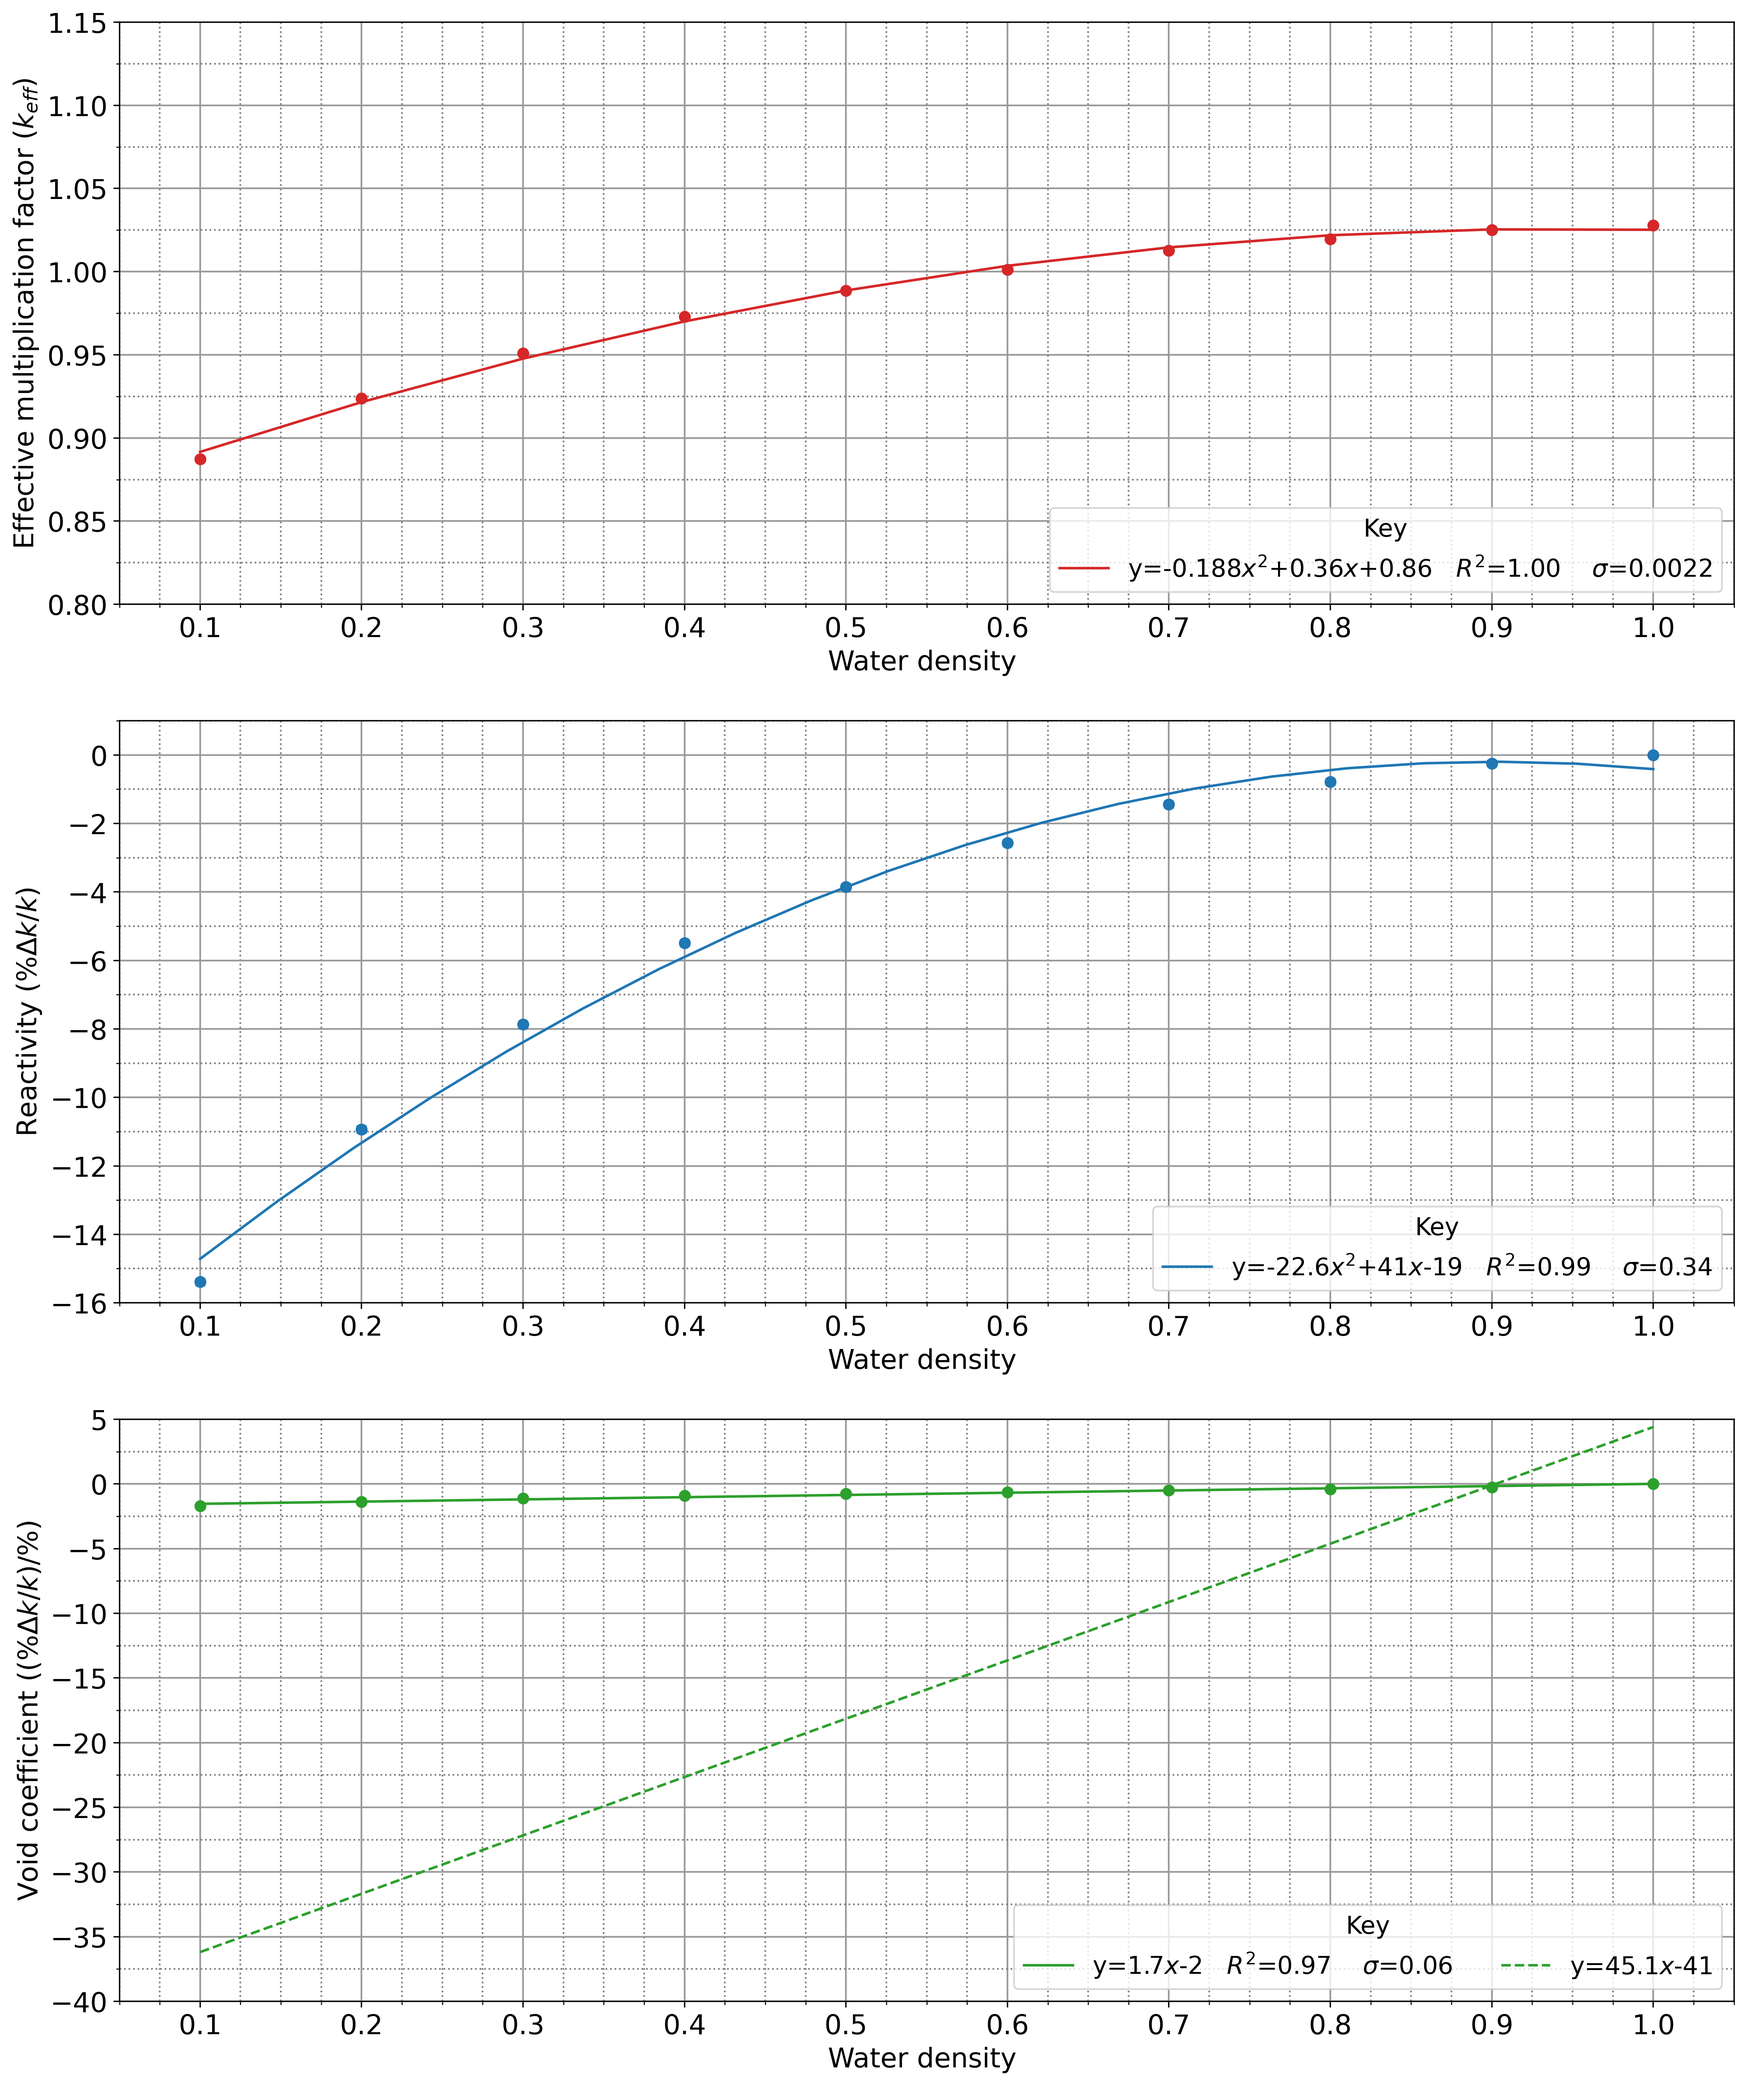
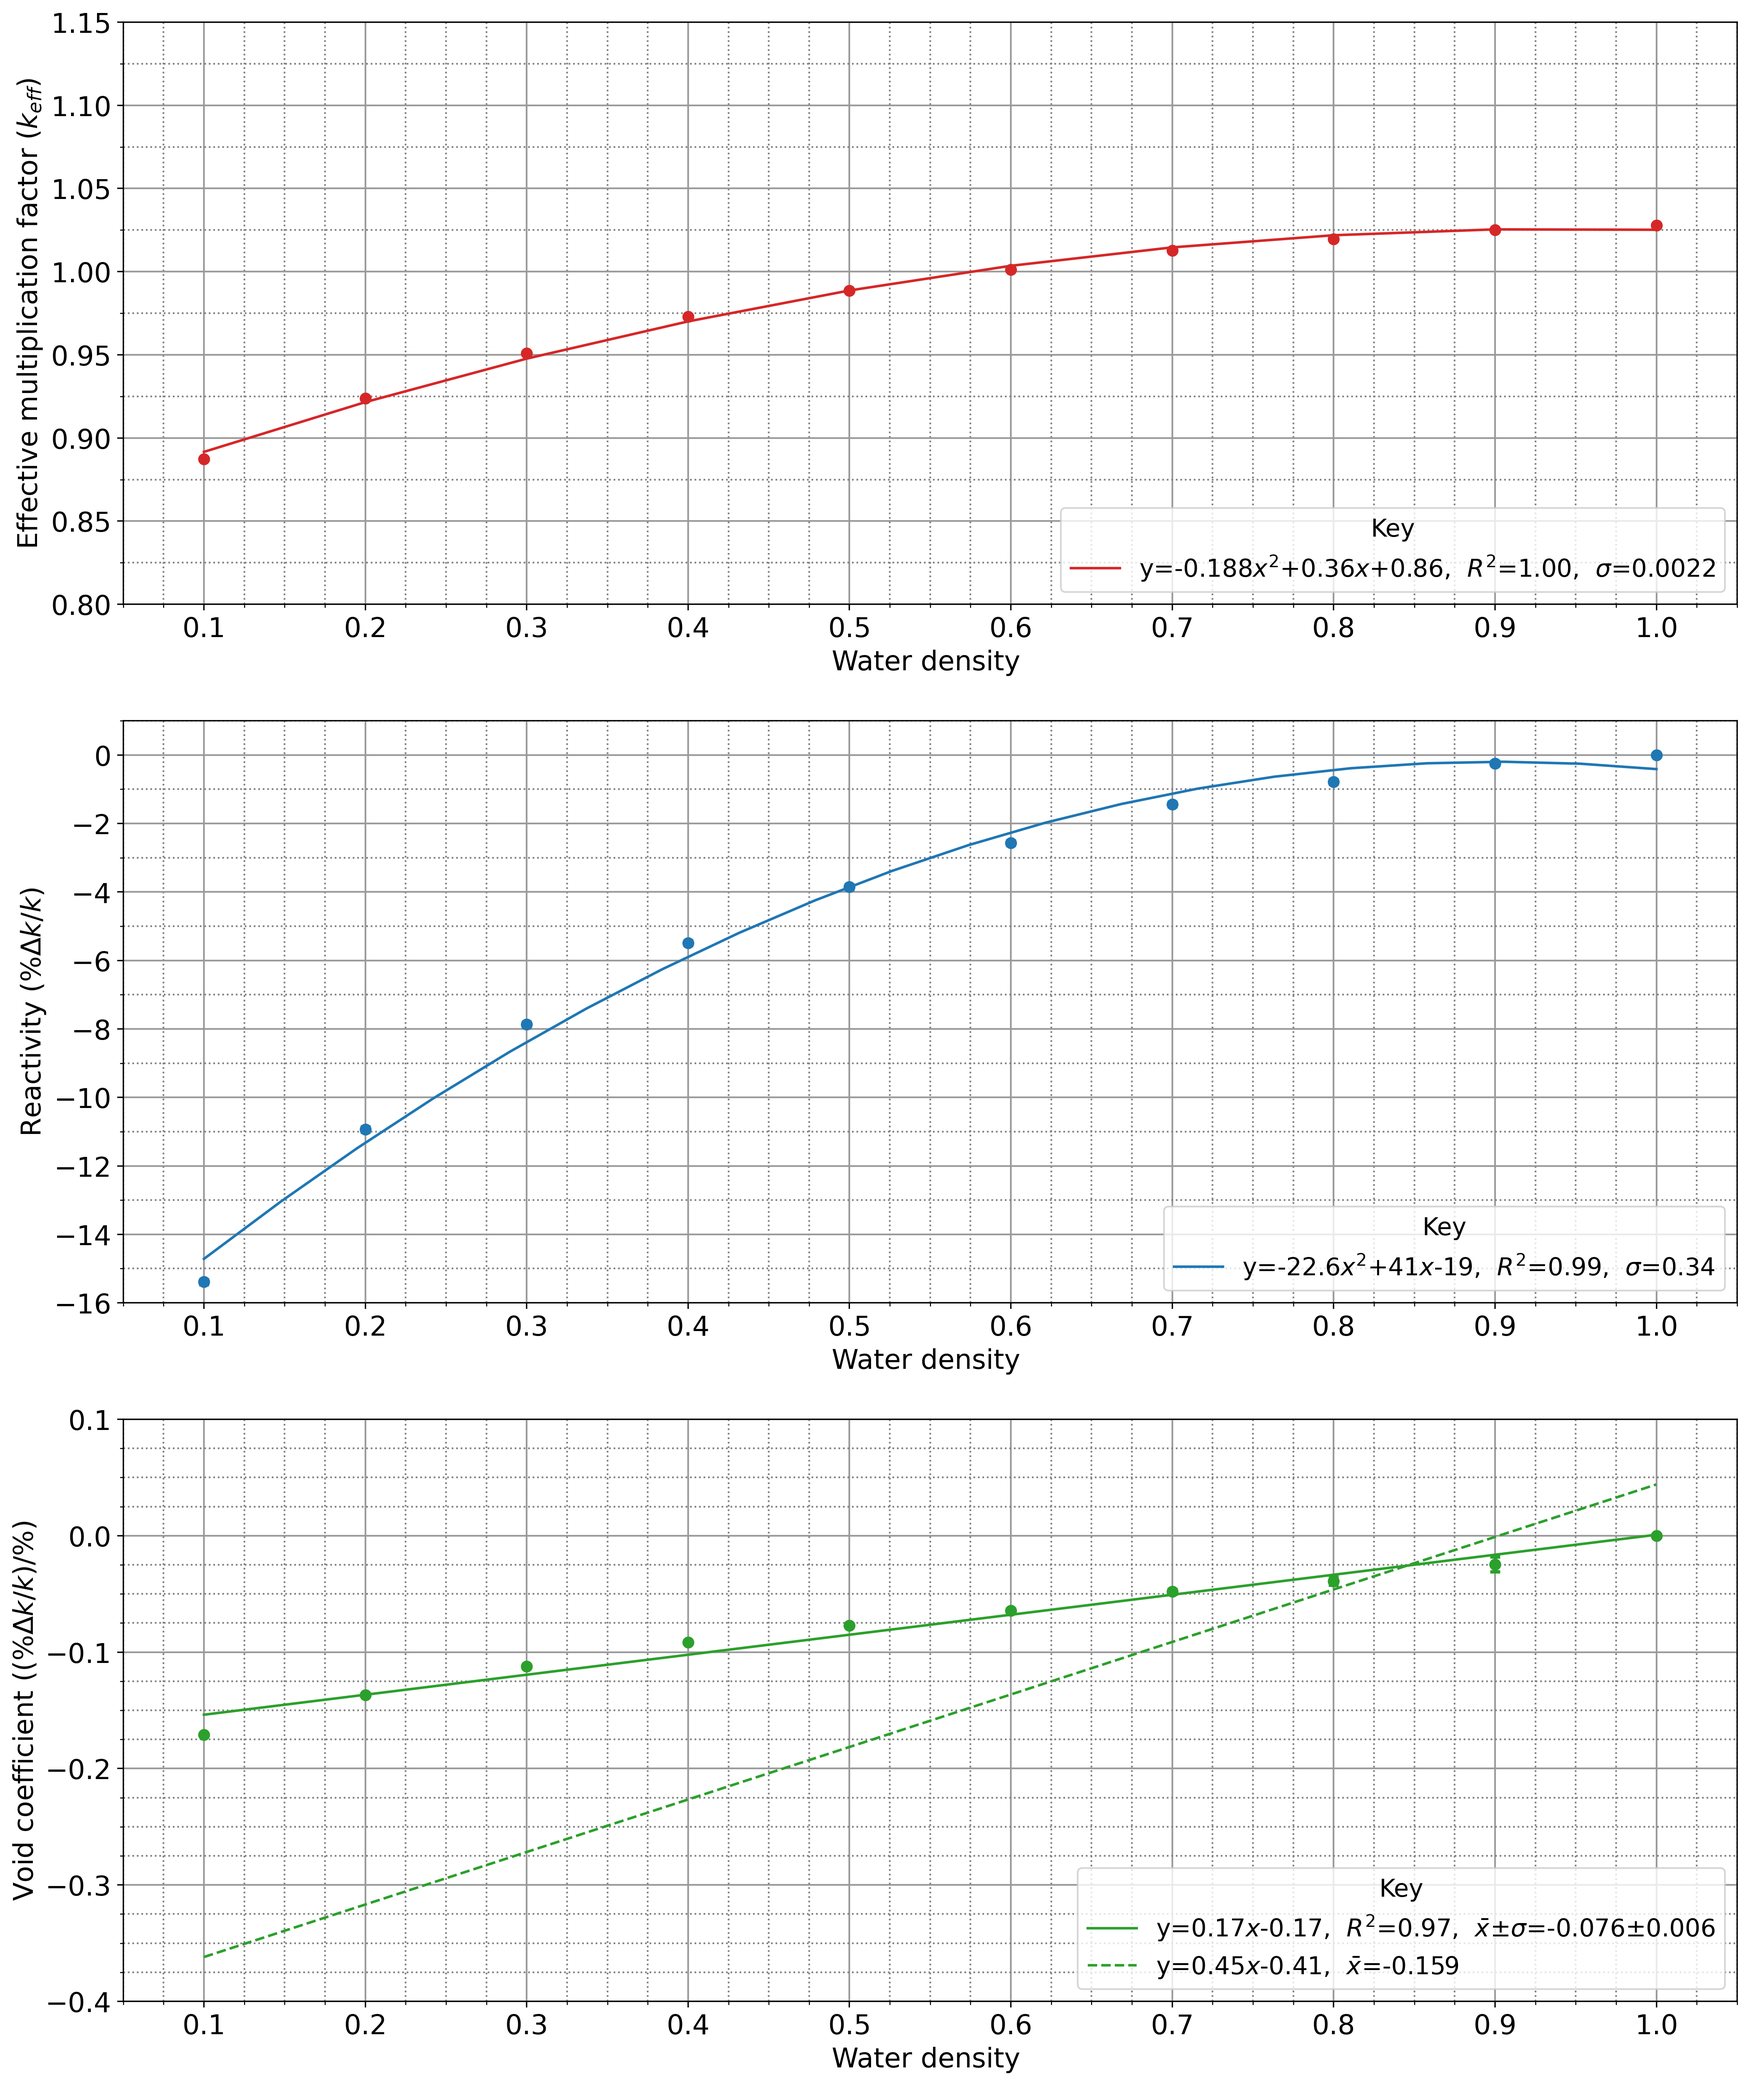
finalized data

diff --git a/void.py b/void.py
@@ -181,7 +181,7 @@ def calc_params_void(rho_csv_name, params_csv_name):
     rods = [c for c in rho_df.columns.values.tolist() if "unc" not in c]
     heights = rho_df.index.values.tolist()
 
-    parameters = ['density', 'D density', 'D rho', 'rho unc', 'D dollars', 'dollars unc',
+    parameters = ['density', 'D density %', 'D rho', 'rho unc', 'D dollars', 'dollars unc',
                   'void rho', 'void rho unc', 'void dollars', 'void dollars unc']
 
     # Setup a dataframe to collect rho values
@@ -189,7 +189,7 @@ def calc_params_void(rho_csv_name, params_csv_name):
     params_df = pd.DataFrame(columns=parameters)  # use lower cases to match 'rods' def above
     params_df['density'] = WATER_DENSITIES
     params_df.set_index('density', inplace=True)
-    params_df['D density'] = [round(1.0-x, 1) for x in WATER_DENSITIES]
+    params_df['D density %'] = [100*round(1.0-x, 1) for x in WATER_DENSITIES]
     params_df['D rho'] = rho_df['rho']
     params_df['rho unc'] = rho_df['rho unc']
     params_df['D dollars'] = rho_df['dollars']
@@ -200,10 +200,10 @@ def calc_params_void(rho_csv_name, params_csv_name):
             params_df.loc[water_density, 'void rho'], params_df.loc[water_density, 'void rho unc'], \
             params_df.loc[water_density, 'void dollars'], params_df.loc[water_density, 'void dollars unc'] = 0, 0, 0, 0
         else:
-            params_df.loc[water_density, 'void rho'] = params_df.loc[water_density, 'D rho'] / 10/params_df.loc[water_density, 'D density']
-            params_df.loc[water_density, 'void rho unc'] = params_df.loc[water_density, 'rho unc'] / 10/params_df.loc[water_density, 'D density']
-            params_df.loc[water_density, 'void dollars'] = params_df.loc[water_density, 'D dollars'] / 10/params_df.loc[water_density, 'D density']
-            params_df.loc[water_density, 'void dollars unc'] = params_df.loc[water_density, 'dollars unc'] / 10/params_df.loc[water_density, 'D density']
+            params_df.loc[water_density, 'void rho'] = params_df.loc[water_density, 'D rho'] / params_df.loc[water_density, 'D density %']
+            params_df.loc[water_density, 'void rho unc'] = params_df.loc[water_density, 'rho unc'] / params_df.loc[water_density, 'D density %']
+            params_df.loc[water_density, 'void dollars'] = params_df.loc[water_density, 'D dollars'] / params_df.loc[water_density, 'D density %']
+            params_df.loc[water_density, 'void dollars unc'] = params_df.loc[water_density, 'dollars unc'] / params_df.loc[water_density, 'D density %']
 
     print(f"\nVarious rod parameters:\n{params_df}")
     params_df.to_csv(params_csv_name)
@@ -256,7 +256,7 @@ def plot_data_void(keff_csv_name, rho_csv_name, params_csv_name, figure_name, rh
                                               r"Reactivity ($\%\Delta k/k$)", \
                                               r"Void coefficient ((%$\Delta k/k$)/%)"
     if rho_or_dollars == 'dollars':
-        y_label_rho, y_label_void= r"Reactivity ($)", r"Void coefficient (\$/%)"
+        y_label_rho, y_label_void= r"Reactivity ($\Delta$\$)", r"Void coefficient (\$/%)"
 
     plot_color = ["tab:red","tab:blue","tab:green"]
 
@@ -272,14 +272,14 @@ def plot_data_void(keff_csv_name, rho_csv_name, params_csv_name, figure_name, rh
     ax_rho_y_min, ax_rho_y_max = -16, 1
     ax_rho_y_major_ticks_interval, ax_rho_y_minor_ticks_interval = 2, 1
     if rho_or_dollars == 'dollars':
-        ax_rho_y_min, ax_rho_y_max = -22, 1.0
+        ax_rho_y_min, ax_rho_y_max = -21, 1.0
         ax_rho_y_major_ticks_interval, ax_rho_y_minor_ticks_interval = 2, 1
 
-    ax_void_y_min, ax_void_y_max = -40, 5
-    ax_void_y_major_ticks_interval, ax_void_y_minor_ticks_interval = 5, 2.5
+    ax_void_y_min, ax_void_y_max = -0.4, 0.1
+    ax_void_y_major_ticks_interval, ax_void_y_minor_ticks_interval = 0.1, 0.025
     if rho_or_dollars == 'dollars':
-        ax_void_y_min, ax_void_y_max = -50, 5
-        ax_void_y_major_ticks_interval, ax_void_y_minor_ticks_interval = 5, 2.5
+        ax_void_y_min, ax_void_y_max = -0.5, 0.1
+        ax_void_y_major_ticks_interval, ax_void_y_minor_ticks_interval = 0.1, 0.025
 
     fig, axs = plt.subplots(3, 1, figsize=(1636 / 96, 3 * 673 / 96), dpi=my_dpi, facecolor='w', edgecolor='k')
     ax_keff, ax_rho, ax_void = axs[0], axs[1], axs[2]  # integral, differential worth on top, bottom, resp.
@@ -302,7 +302,7 @@ def plot_data_void(keff_csv_name, rho_csv_name, params_csv_name, figure_name, rh
     y_fit_keff = np.polyval(eq_keff, x)
 
     ax_keff.plot(x, y_fit_keff, color=plot_color[0],
-                 label=r'y=-{:.3f}$x^2$+{:.2f}$x$+{:.2f}   $R^2$={:.2f}    $\sigma$={:.4f}'.format(
+                 label=r'y=-{:.3f}$x^2$+{:.2f}$x$+{:.2f},  $R^2$={:.2f},  $\sigma$={:.4f}'.format(
                      np.abs(eq_keff[0]),eq_keff[1], eq_keff[2], r2_keff, sd_keff))
 
     # Plot data for reactivity
@@ -321,7 +321,7 @@ def plot_data_void(keff_csv_name, rho_csv_name, params_csv_name, figure_name, rh
     y_fit_rho = np.polyval(eq_rho, x_fit)
 
     ax_rho.plot(x_fit, y_fit_rho, color=plot_color[1],
-                label=r'y=-{:.1f}$x^2$+{:.0f}$x${:.0f}   $R^2$={:.2f}    $\sigma$={:.2f}'.format(
+                label=r'y=-{:.1f}$x^2$+{:.0f}$x${:.0f},  $R^2$={:.2f},  $\sigma$={:.2f}'.format(
                     np.abs(eq_rho[0]), eq_rho[1], eq_rho[2], r2_rho, sd_rho))
 
     # Plot data for void
@@ -340,14 +340,15 @@ def plot_data_void(keff_csv_name, rho_csv_name, params_csv_name, figure_name, rh
     y_fit_void = np.polyval(eq_void, x_fit)
 
     ax_void.plot(x_fit, y_fit_void, color=plot_color[2],
-                label=r'y={:.1f}$x${:.0f}   $R^2$={:.2f}    $\sigma$={:.2f}'.format(
-                    np.abs(eq_void[0]), eq_void[1], r2_void, sd_void))
+                label=r'y={:.2f}$x${:.2f},  $R^2$={:.2f},  $\bar x$$\pm\sigma$={:.3f}$\pm${:.3f}'.format(
+                    np.abs(eq_void[0]), eq_void[1], r2_void, np.mean(y_fit_void), sd_void))
 
-    eq_void_der = -1*np.polyder(eq_rho)  # n=2 order fit
+    eq_void_der = -1*np.polyder(eq_rho)/100  # n=2 order fit
     y_fit_void_der = np.polyval(eq_void_der, x_fit)
 
     ax_void.plot(x_fit, y_fit_void_der, color=plot_color[2], linestyle='dashed',
-                label=r'y={:.1f}$x${:.0f}'.format(np.abs(eq_void_der[0]), eq_void_der[1]))
+                label=r'y={:.2f}$x${:.2f},  $\bar x$={:.3f}'.format(
+                    np.abs(eq_void_der[0]), eq_void_der[1], np.mean(y_fit_void_der)))
 
 
 
@@ -388,7 +389,7 @@ def plot_data_void(keff_csv_name, rho_csv_name, params_csv_name, figure_name, rh
 
     ax_rho.set_xlabel(x_label, fontsize=label_fontsize)
     ax_rho.set_ylabel(y_label_rho, fontsize=label_fontsize)
-    ax_rho.legend(title=f'Key', title_fontsize=legend_fontsize, ncol=4, fontsize=legend_fontsize, loc='lower right')
+    ax_rho.legend(title=f'Key', title_fontsize=legend_fontsize, ncol=1, fontsize=legend_fontsize, loc='lower right')
 
 
     # Void worth plot settings
@@ -409,7 +410,7 @@ def plot_data_void(keff_csv_name, rho_csv_name, params_csv_name, figure_name, rh
 
     ax_void.set_xlabel(x_label, fontsize=label_fontsize)
     ax_void.set_ylabel(y_label_void, fontsize=label_fontsize)
-    ax_void.legend(title=f'Key', title_fontsize=legend_fontsize, ncol=4, fontsize=legend_fontsize, loc='lower right')
+    ax_void.legend(title=f'Key', title_fontsize=legend_fontsize, ncol=1, fontsize=legend_fontsize, loc='lower right')
 
 
     plt.savefig(f"{figure_name.split('.')[0]}_{rho_or_dollars}.{figure_name.split('.')[-1]}", bbox_inches='tight',
